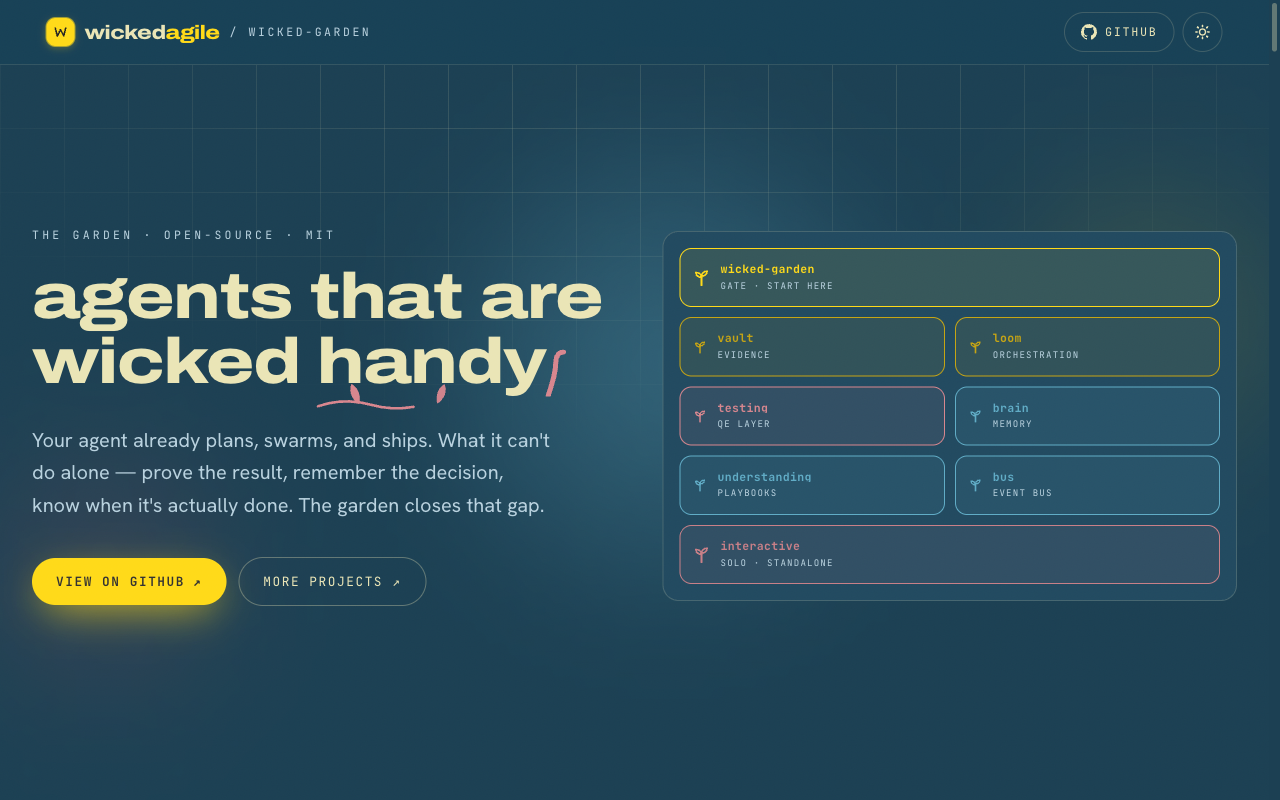
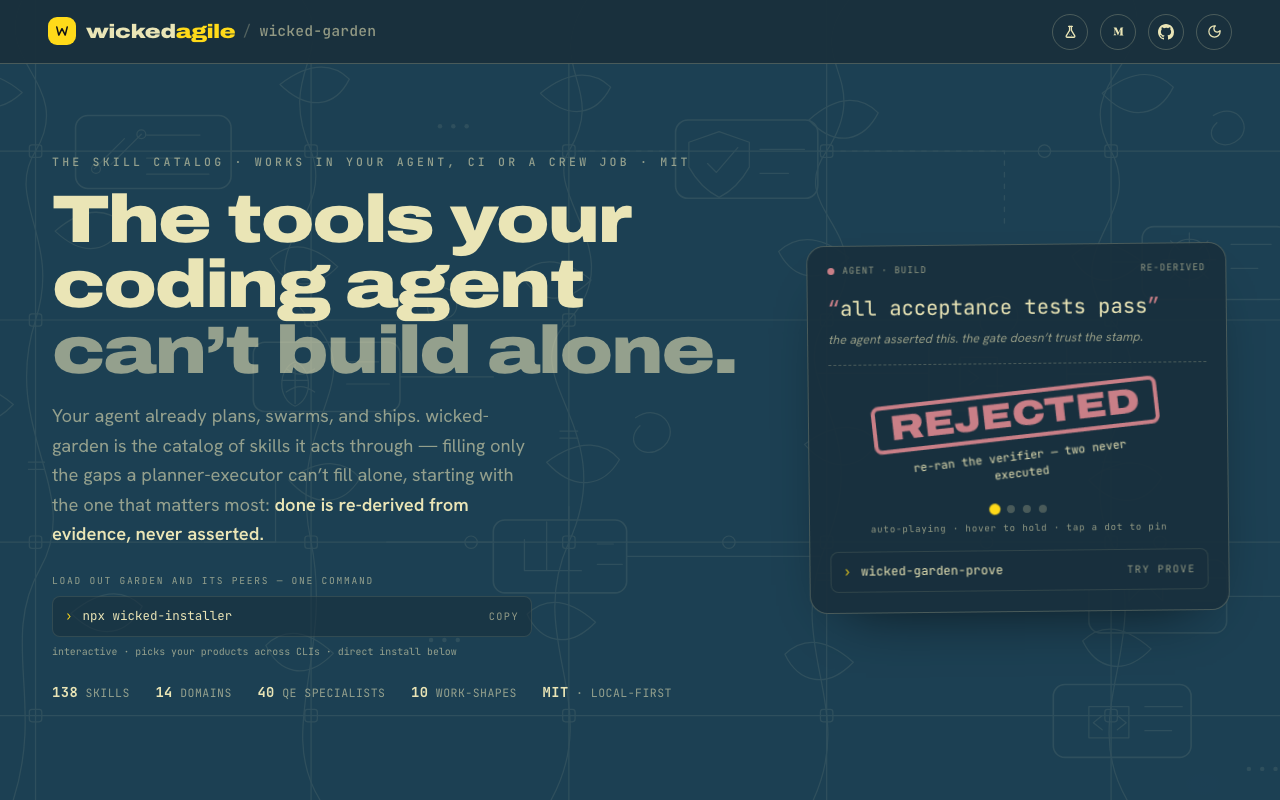
docs(site): family front door with a builder section (#59)
* docs(site): family front door with a builder section

Lead with the family one-liner, a five-step how-it-works band and the
four-plane stack in plain words; add 'Built by Mike Parcewski' (why, the
hard problems solved, architecture, how to reach him) with explicit
[ADD: ...] placeholders for anything not already public. Install line
names the container runtime jobs need. compressHTML off.

* chore(site): re-pin wicked-web to the plain-words family map; re-shoot the stale site previews

* chore(site): refresh the studio and crew previews

* docs(site): the builder section is a showcase, not a job ad

Drop both [ADD: ...] placeholders and the contact framing; keep only
links the site already carries (GitHub, Medium, the career chapters)
under a neutral 'More from Mike' label.

---------

diff --git a/tests/e2e/identity.spec.ts b/tests/e2e/identity.spec.ts
@@ -1,14 +1,12 @@
 /**
- * Editorial identity — wickedagile.com is the owner's PERSONAL APEX, not a
- * product landing. Source contract (src/pages/index.astro + Hero.astro +
- * Shipped.astro):
- *   - Hero speaks the builder/writer voice ("The best code tells a story…"),
- *     with "the work" / "the writing" CTAs.
- *   - Section order: hero → the platform stack (#projects, tech first) →
- *     articles/dispatches (#content) → about chapters (#about, the closer).
+ * Editorial identity — wickedagile.com is the wicked FAMILY FRONT DOOR and the
+ * builder's showcase (operator decision D1, 2026-10-17). Source contract
+ * (src/pages/index.astro + Hero.astro + Story.astro + Shipped.astro + Builder.astro):
+ *   - Hero leads with the family one-liner, with "how it works" / "who built it" CTAs.
+ *   - Section order: hero → how it works (#how) → the platform stack (#projects)
+ *     → built by (#builder) → articles/dispatches (#content) → about chapters (#about).
  *   - The "build on it." Extend band is retired; its pitch survives as ONE
  *     outro line in the stack section linking to garden's #extend.
- *   - Title/description carry the personal voice, not a platform pitch.
  */
 import { test, expect } from '@playwright/test';
 
@@ -17,24 +15,29 @@ test.describe('editorial identity', () => {
     await page.goto('/', { waitUntil: 'domcontentloaded' });
   });
 
-  test('hero speaks the builder/writer voice', async ({ page }) => {
+  test('hero leads with the family one-liner', async ({ page }) => {
     await expect(page.locator('.hero-title')).toHaveText(
-      'The best code tells a story. The best stories have architecture.',
+      'Your coding agents do the work. A different agent checks it against your rules. You get the evidence.',
     );
-    await expect(page.locator('.hero-text')).toContainText("Most people don't build both.");
-    await expect(page.locator('.hero-ctas .btn-primary')).toHaveText('the work →');
-    await expect(page.locator('.hero-ctas .btn-primary')).toHaveAttribute('href', '#projects');
-    await expect(page.locator('.hero-ctas .btn-ghost')).toHaveText('the writing →');
-    await expect(page.locator('.hero-ctas .btn-ghost')).toHaveAttribute('href', '#content');
-    // Meta voice: personal apex, not "infrastructure for coding agents".
-    await expect(page).toHaveTitle('wickedagile — the best code tells a story');
+    await expect(page.locator('.hero-text')).toContainText('in sandboxes');
+    await expect(page.locator('.hero-ctas .btn-primary')).toHaveText('how it works →');
+    await expect(page.locator('.hero-ctas .btn-primary')).toHaveAttribute('href', '#how');
+    await expect(page.locator('.hero-ctas .btn-ghost')).toHaveText('who built it →');
+    await expect(page.locator('.hero-ctas .btn-ghost')).toHaveAttribute('href', '#builder');
+    await expect(page).toHaveTitle('wicked — your coding agents, checked against your rules');
   });
 
-  test('sections run hero → stack → articles → about', async ({ page }) => {
+  test('the builder section names who built it and links to more of his work', async ({ page }) => {
+    await expect(page.locator('#builder h2')).toHaveText('Built by Mike Parcewski.');
+    await expect(page.locator('#builder .builder-problem')).toHaveCount(4);
+    await expect(page.locator('#builder .builder-reach a[href="https://github.com/mikeparcewski"]')).toBeAttached();
+  });
+
+  test('sections run hero → how → stack → builder → articles → about', async ({ page }) => {
     // DOM order is the scroll order — rank each section by position among
     // all <section> elements in the page (querySelectorAll, not direct children).
     const order = await page.evaluate(() =>
-      ['#terminal-section', '#projects', '#content', '#about'].map((sel) => {
+      ['#terminal-section', '#how', '#projects', '#builder', '#content', '#about'].map((sel) => {
         const el = document.querySelector(sel);
         return el ? Array.prototype.indexOf.call(document.body.querySelectorAll('section'), el) : -1;
       }),

diff --git a/src/scripts/terminal.js b/src/scripts/terminal.js
@@ -38,8 +38,9 @@ function boot(){
   var SPLASH=['','  ┌───────────────────────────────────────────┐','  │                                           │','  │     w i c k e d  ·  a g i l e            │','  │                                           │','  │     ai-native  ·  local-first  ·  v2026   │','  │                                           │','  └───────────────────────────────────────────┘',''];
   async function runSession(){
     for(var i=0;i<SPLASH.length;i++){commitLine('<span class="t-c">'+esc(SPLASH[i])+'</span>');await delay(38)}
-    commitLine('<span class="t-d">  the best code tells a story.</span>');
-    commitLine('<span class="t-d">  the best stories have architecture.</span>');
+    commitLine('<span class="t-d">  your coding agents do the work.</span>');
+    commitLine('<span class="t-d">  a different agent checks it against your rules.</span>');
+    commitLine('<span class="t-d">  you get the evidence.</span>');
     appendTxt('\n');commitLine('<span style="opacity:.2;font-size:.68em">  type / to explore  ·  or watch this run</span>');appendTxt('\n');await delay(1500);
     await typeCmd('/');showMenu('articles');await delay(920);hideMenu();
     await typeCmd('articles');await delay(140);commitCmd('articles');await delay(160);
@@ -80,8 +81,8 @@ function boot(){
     }
     commitLine('<span class="t-d">'+esc(SEP)+'</span>');
     commitLine('<span class="t-d">one surface · one control plane · one catalog · one record</span>');
-    commitLine('<span class="t-d">governance beyond the gate: steering · governed knowledge (agents propose, you promote) · requirements graph as source of truth</span>');
-    appendTxt('\nget it → ');commitLine('<span class="t-y t-b">npx wicked-installer</span> <span class="t-d">· Claude Code · Antigravity · Codex · OpenCode · Pi</span>');
+    commitLine('<span class="t-d">rules you set (everywhere, per project or per repo) · memory you can see and edit · knowledge learned from your code and docs</span>');
+    appendTxt('\nget it → ');commitLine('<span class="t-y t-b">npx wicked-installer</span> <span class="t-d">· Claude Code · Antigravity · Codex · OpenCode · Pi · jobs need a container runtime</span>');
     appendTxt('all → ');commitLine('<a href="https://github.com/mikeparcewski" target="_blank" rel="noopener">github.com/mikeparcewski</a>');appendTxt('\n');await delay(1000);
     await typeCmd('/');showMenu('about');await delay(920);hideMenu();
     await typeCmd('about');await delay(140);commitCmd('about');await delay(160);

diff --git a/tests/e2e/shipped-stack.spec.ts b/tests/e2e/shipped-stack.spec.ts
@@ -66,10 +66,10 @@ test.describe('shipped stack', () => {
     expect(page.url()).toContain('127.0.0.1');
 
     await expect(page.locator('#previewUrl')).toHaveText('wg.wickedagile.com');
-    await expect(page.locator('#centerRole')).toHaveText('The catalog');
+    await expect(page.locator('#centerRole')).toHaveText('Skills and tools');
     await expect(page.locator('#browserFrame')).toBeVisible();
     await expect(page.locator('#codeCard')).toBeHidden();
-    await expect(page.locator('#readoutDesc')).toContainText('catalog');
+    await expect(page.locator('#readoutDesc')).toContainText('skills');
     await expect(garden).toHaveAttribute('aria-current', 'true');
   });
 

diff --git a/README.md b/README.md
@@ -9,14 +9,18 @@ __      _(_) ___| | _____  __| | __ _  __ _(_) | ___
 
 # wickedagile.com
 
-The owner's **personal apex** — one architect's body of work: the things he
-builds (the **wicked-\*** platform, four planes) and the things he publishes
-(the dispatch feed), finishing with a little about him. The product *selling*
-lives on the per-product deep-dive sites (wc/we/wg/ws; wi now redirects to ws); this page shows the
-work and links out. It is also the **canonical style source** for the family:
-the design tokens, fonts, theme system, topbar, footer, and hero terminal
-defined here are the reference the sibling sites (wicked-garden,
-wicked-interactive, wicked-estate, …) are meant to match.
+The **wicked family's front door** and the builder's showcase. It leads with the platform: the
+family one-liner (*Your coding agents do the work. A different agent checks it against your rules.
+You get the evidence.*), how it works in five steps, and the four-plane stack. Then **Built by Mike
+Parcewski**: why it was built, the hard problems it solves, and where to see more of his work, followed by the
+dispatch feed and the career chapters. Product deep dives live on the per-product sites
+(wc/we/wg/ws; wi redirects to ws). It is also the **canonical style source** for the family: the
+design tokens, fonts, theme system, topbar, footer, and hero terminal defined here are the reference
+the sibling sites are meant to match.
+
+Copy rule: say what ships today in plain words (job, agent, sandbox, rules), and never invent bio
+facts. The builder section is a showcase, not a job ad: it links only to what the site already
+carries (GitHub, Medium, the career chapters).
 
 ## Tech
 
